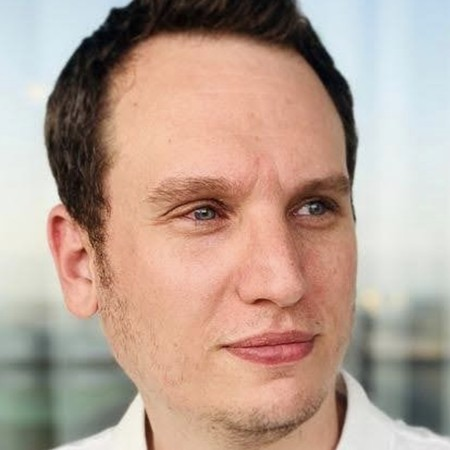
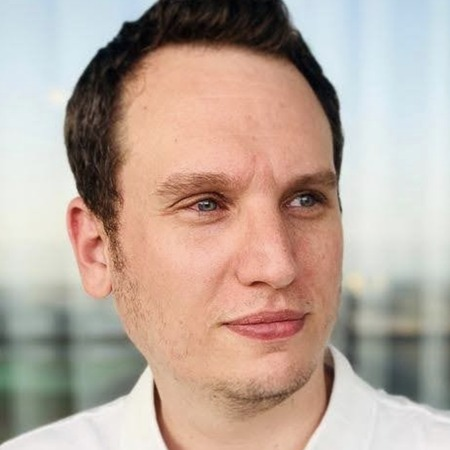
changed to rectangular

diff --git a/docs/organizers.md b/docs/organizers.md
@@ -6,12 +6,17 @@ permalink: /organizers/
 
 # Organizing Committee
 
-<table>
+<table style="table-layout:fixed; width:100%;">
+  <colgroup>
+    <col style="width:33.33%">
+    <col style="width:33.33%">
+    <col style="width:33.33%">
+  </colgroup>
   <tbody>
     <tr>
-      <td><img src="/assets/images/organizers/bo_zhao_sq.jpg" alt="Bo Zhao" style="width:225px; height:225px; object-fit:cover; border-radius:50%;"></td>
-      <td><img src="/assets/images/organizers/aspen_hopkins_sq.jpg" alt="Aspen Hopkins" style="width:225px; height:225px; object-fit:cover; border-radius:50%;"></td>
-      <td><img src="/assets/images/organizers/amil_dravid_sq.jpg" alt="Amil Dravid" style="width:225px; height:225px; object-fit:cover; border-radius:50%;"></td>
+      <td><img src="/assets/images/organizers/bo_zhao_rect.jpg" alt="Bo Zhao" style="width:100%; max-width:180px; aspect-ratio:3 / 4; object-fit:cover; border-radius:8px;"></td>
+      <td><img src="/assets/images/organizers/aspen_hopkins_rect.jpg" alt="Aspen Hopkins" style="width:100%; max-width:180px; aspect-ratio:3 / 4; object-fit:cover; border-radius:8px;"></td>
+      <td><img src="/assets/images/organizers/amil_dravid_rect.jpg" alt="Amil Dravid" style="width:100%; max-width:180px; aspect-ratio:3 / 4; object-fit:cover; border-radius:8px;"></td>
     </tr>
     <tr>
       <td><strong><a href="https://b-zhao.github.io/">Bo Zhao</a></strong> <br> Harvard University</td>
@@ -19,9 +24,9 @@ permalink: /organizers/
       <td><strong><a href="https://avdravid.github.io/">Amil Dravid</a></strong> <br> UC Berkeley</td>
     </tr>
     <tr>
-      <td><img src="/assets/images/organizers/koyena_pal_sq.jpg" alt="Koyena Pal" style="width:225px; height:225px; object-fit:cover; border-radius:50%;"></td>
-      <td><img src="/assets/images/organizers/fabrizio_frasca_sq.jpg" alt="Fabrizio Frasca" style="width:225px; height:225px; object-fit:cover; border-radius:50%;"></td>
-      <td><img src="/assets/images/organizers/giorgos_bouritsas_sq.jpg" alt="Giorgos Bouritsas" style="width:225px; height:225px; object-fit:cover; border-radius:50%;"></td>
+      <td><img src="/assets/images/organizers/koyena_pal_rect.jpg" alt="Koyena Pal" style="width:100%; max-width:180px; aspect-ratio:3 / 4; object-fit:cover; border-radius:8px;"></td>
+      <td><img src="/assets/images/organizers/fabrizio_frasca_rect.jpg" alt="Fabrizio Frasca" style="width:100%; max-width:180px; aspect-ratio:3 / 4; object-fit:cover; border-radius:8px;"></td>
+      <td><img src="/assets/images/organizers/giorgos_bouritsas_rect.jpg" alt="Giorgos Bouritsas" style="width:100%; max-width:180px; aspect-ratio:3 / 4; object-fit:cover; border-radius:8px;"></td>
     </tr>
     <tr>
       <td><strong><a href="https://koyenapal.github.io/">Koyena Pal</a></strong> <br> Northeastern University</td>
@@ -35,12 +40,17 @@ The organizing team brings together expertise in symmetries and optimization, in
 
 # Steering Committee
 
-<table>
+<table style="table-layout:fixed; width:100%;">
+  <colgroup>
+    <col style="width:33.33%">
+    <col style="width:33.33%">
+    <col style="width:33.33%">
+  </colgroup>
   <tbody>
     <tr>
-      <td><img src="/assets/images/organizers/haggai_maron_sq.jpg" alt="Haggai Maron" style="width:225px; height:225px; object-fit:cover; border-radius:50%;"></td>
-      <td><img src="/assets/images/organizers/damian_borth_sq.jpg" alt="Damian Borth" style="width:225px; height:225px; object-fit:cover; border-radius:50%;"></td>
-      <td><img src="/assets/images/organizers/gal_chechik_sq.jpg" alt="Gal Chechik" style="width:225px; height:225px; object-fit:cover; border-radius:50%;"></td>
+      <td><img src="/assets/images/organizers/haggai_maron_rect.jpg" alt="Haggai Maron" style="width:100%; max-width:180px; aspect-ratio:3 / 4; object-fit:cover; border-radius:8px;"></td>
+      <td><img src="/assets/images/organizers/damian_borth_rect.jpg" alt="Damian Borth" style="width:100%; max-width:180px; aspect-ratio:3 / 4; object-fit:cover; border-radius:8px;"></td>
+      <td><img src="/assets/images/organizers/gal_chechik_rect.jpg" alt="Gal Chechik" style="width:100%; max-width:180px; aspect-ratio:3 / 4; object-fit:cover; border-radius:8px;"></td>
     </tr>
     <tr>
       <td><strong><a href="https://haggaim.github.io/">Haggai Maron</a></strong> <br> Technion and NVIDIA</td>
@@ -48,9 +58,9 @@ The organizing team brings together expertise in symmetries and optimization, in
       <td><strong><a href="https://research.nvidia.com/person/gal-chechik">Gal Chechik</a></strong> <br> NVIDIA and Bar-Ilan University</td>
     </tr>
     <tr>
-      <td><img src="/assets/images/organizers/michael_bronstein_sq.jpg" alt="Michael Bronstein" style="width:225px; height:225px; object-fit:cover; border-radius:50%;"></td>
-      <td><img src="/assets/images/organizers/stefanie_jegelka_sq.jpg" alt="Stefanie Jegelka" style="width:225px; height:225px; object-fit:cover; border-radius:50%;"></td>
-      <td><img src="/assets/images/organizers/alex_bronstein_sq.jpg" alt="Alex Bronstein" style="width:225px; height:225px; object-fit:cover; border-radius:50%;"></td>
+      <td><img src="/assets/images/organizers/michael_bronstein_rect.jpg" alt="Michael Bronstein" style="width:100%; max-width:180px; aspect-ratio:3 / 4; object-fit:cover; border-radius:8px;"></td>
+      <td><img src="/assets/images/organizers/stefanie_jegelka_rect.jpg" alt="Stefanie Jegelka" style="width:100%; max-width:180px; aspect-ratio:3 / 4; object-fit:cover; border-radius:8px;"></td>
+      <td><img src="/assets/images/organizers/alex_bronstein_rect.jpg" alt="Alex Bronstein" style="width:100%; max-width:180px; aspect-ratio:3 / 4; object-fit:cover; border-radius:8px;"></td>
     </tr>
     <tr>
       <td><strong><a href="https://www.cs.ox.ac.uk/people/michael.bronstein/">Michael Bronstein</a></strong> <br> University of Oxford</td>
